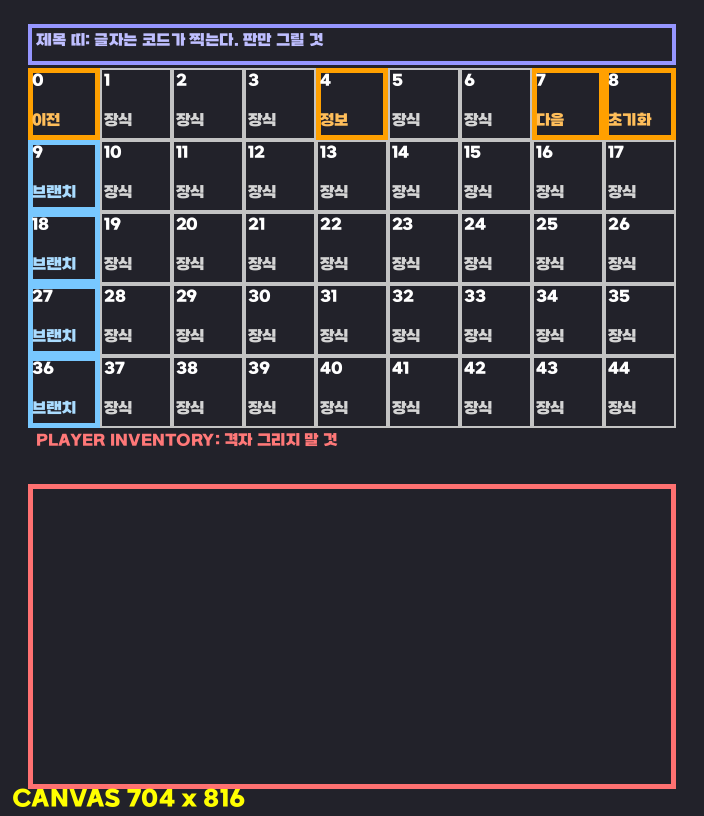
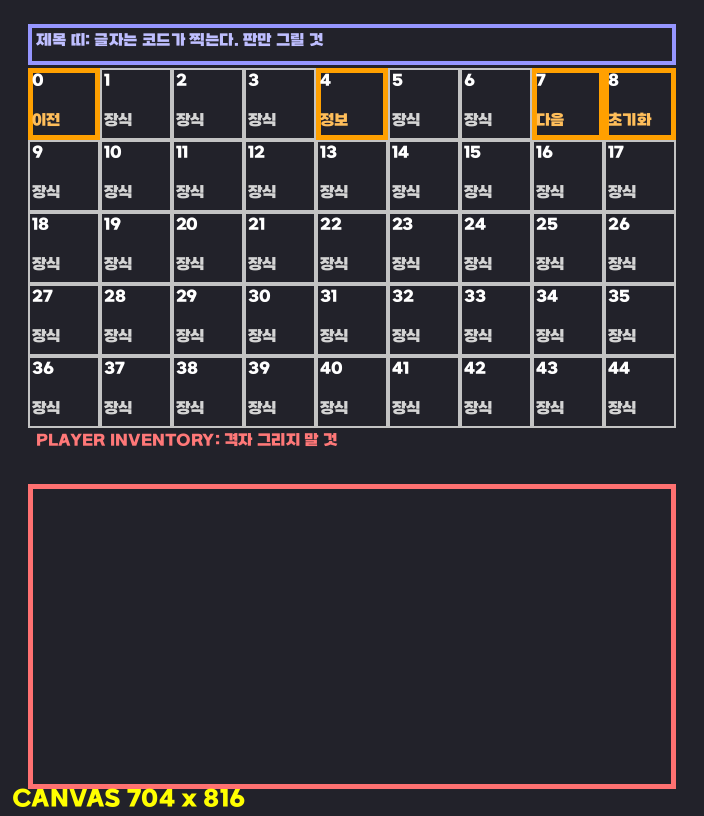
특성 트리 뼈대판에서 왼쪽 열 홈 제거
갈래 이름표 자리인 줄 알고 홈 4개를 팠는데, 그 코드는 트리 전부가 근원 노드를
써서 실행되지 않는 죽은 분기였다(자바 쪽에서 삭제). 실제로 그 열에는 근원 노드와
세로 연결선만 지나가므로 1~4행과 같은 평평한 판이어야 한다.

Changed region(s): [[0.0312, 0.1532, 0.1562, 0.5515]]

diff --git a/gui-forge/make_order_sheets.py b/gui-forge/make_order_sheets.py
@@ -95,9 +95,10 @@ SHEETS = {
     ]),
     "skilltree": ("특성 트리", [
         ("p", "스킬 하나를 눌렀을 때 나오는 상세. 0행에 버튼 4개(이전·정보·다음·초기화),"),
-        ("p", "왼쪽 열 4칸이 갈래 이름표, 그 오른쪽이 특성 노드와 연결선이다."),
+        ("p", "그 아래는 전부 특성 노드와 연결선이다 - 왼쪽 열에는 근원 노드가"),
+        ("p", "하나 있고 거기서 세로 연결선이 아래로 뻗어 각 갈래로 이어진다."),
         ("s", ""),
-        ("hi", "★1~4행(점선 안)에는 홈을 파지 말 것."),
+        ("hi", "★점선 안(1~4행 전체, 왼쪽 열 포함)에는 홈을 파지 말 것."),
         ("p", "노드와 연결선이 칸 밖까지 넘쳐 그려지는 아이콘이라, 소켓 테두리가 있으면"),
         ("p", "선과 겹쳐 지저분해진다. 그 영역은 평평한 판이어야 한다."),
         ("p", "판은 조용하게 - 특성 아이콘이 주인공이고 배경은 벽지다."),

diff --git a/gui-forge/make_page_layouts.py b/gui-forge/make_page_layouts.py
@@ -73,9 +73,11 @@ PAGES = {
     # 특성 트리 — 5행 45칸. 0행에 버튼 4개, 1~4행은 노드·레일·브랜치 라벨이 빼곡히 올라간다.
     # ★1~4행에는 소켓을 파지 말 것: 노드와 레일이 oversized_in_gui 로 칸 밖까지 그려져
     #   소켓 테두리와 겹친다. 그 영역은 평평한 판이어야 한다(발주서에 명시).
+    # ★왼쪽 열(9·18·27·36)에는 홈이 없다. 갈래 이름표를 그리던 자리였는데 트리 5개가
+    #   전부 근원 노드를 가져 그 분기가 죽어 있었다(2026-08-08 삭제). 지금 그 열에는
+    #   근원 노드와 거기서 뻗는 세로 연결선만 지나간다 — 1~4행과 같은 평평한 판이어야 한다.
     "skilltree": (5, {
         0: ("홈", "이전"), 4: ("홈", "정보"), 7: ("홈", "다음"), 8: ("홈", "초기화"),
-        **{s: ("목록", "브랜치") for s in (9, 18, 27, 36)},
     }, "장식"),
     "enhance": (5, {
         4: ("홈", "낚싯대 정보"),
